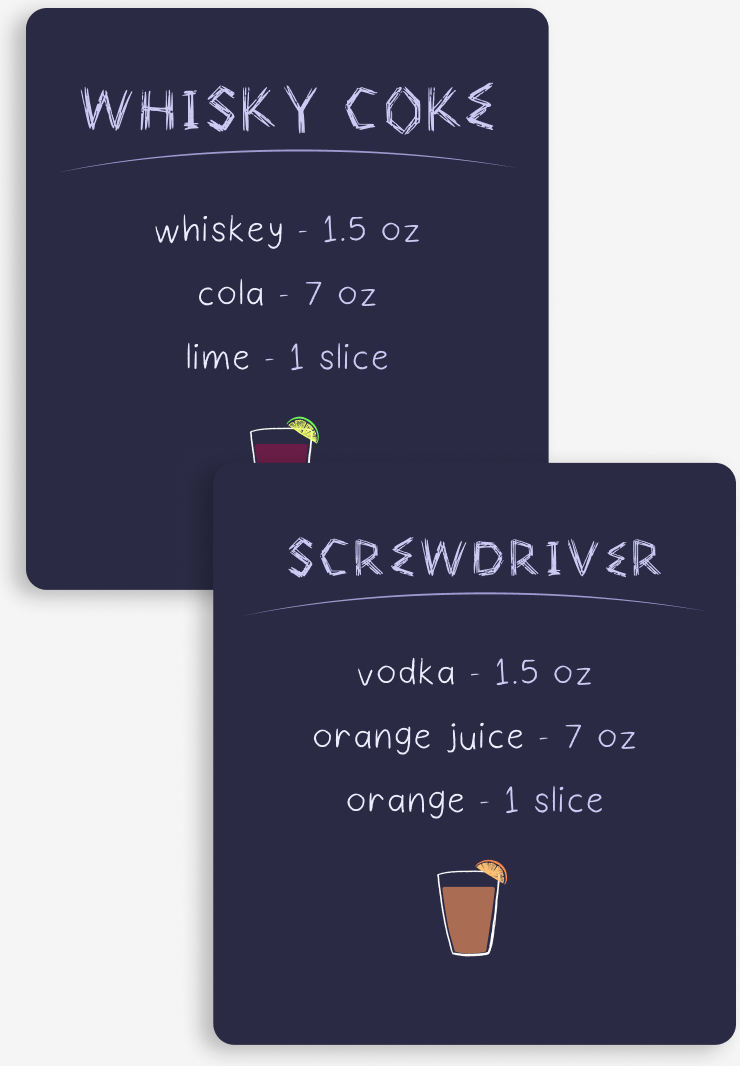
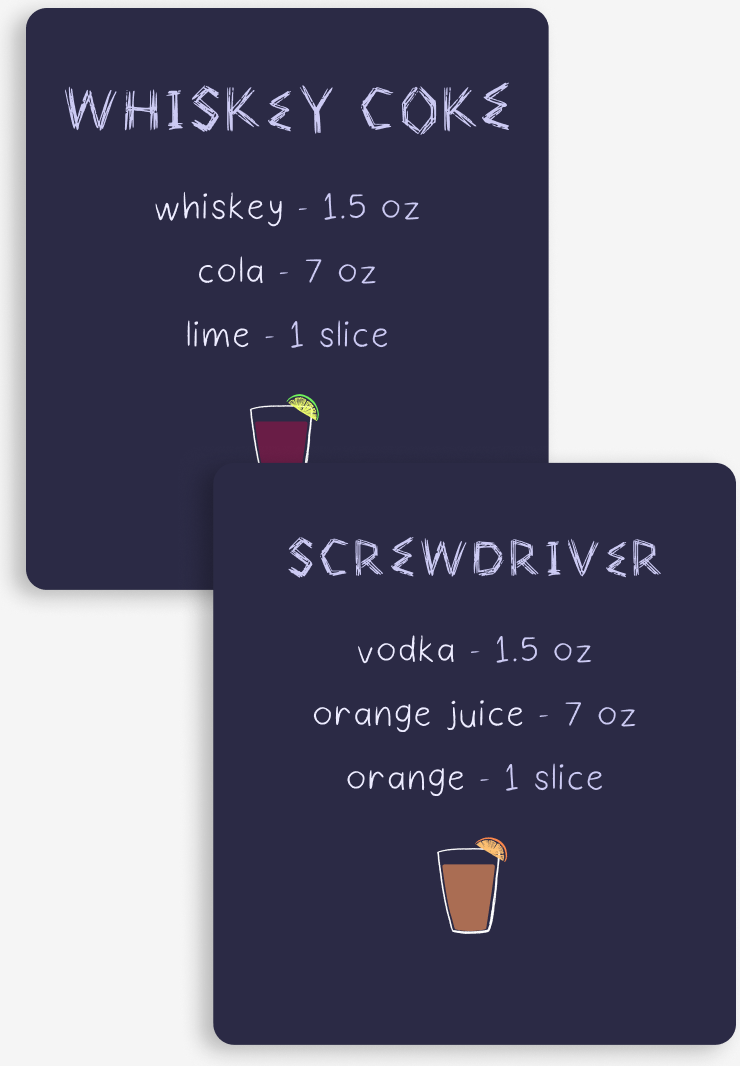
Bone Dry: add the Design system band; recipe card now reads Whiskey Coke

diff --git a/bone-dry.html b/bone-dry.html
@@ -88,7 +88,7 @@
           </div>
         </div>
 
-        <img data-reveal class="bd-learning__cards" src="assets/images/bone-dry/recipe-cards.png" width="740" height="1066" alt="Two recipe cards from the game: Whisky Coke (whiskey 1.5 oz, cola 7 oz, lime 1 slice) and Screwdriver (vodka 1.5 oz, orange juice 7 oz, orange 1 slice)" loading="lazy">
+        <img data-reveal class="bd-learning__cards" src="assets/images/bone-dry/recipe-cards.png" width="740" height="1066" alt="Two recipe cards from the game: Whiskey Coke (whiskey 1.5 oz, cola 7 oz, lime 1 slice) and Screwdriver (vodka 1.5 oz, orange juice 7 oz, orange 1 slice)" loading="lazy">
         <img data-reveal class="bd-learning__peek" src="assets/images/bone-dry/recipe-peek.png" width="614" height="326" alt="In-game prompt: Peek at the recipe for 0.50? with Cancel and Yes buttons" loading="lazy">
       </div>
     </section>
@@ -205,6 +205,14 @@
           <figure class="bd-fig bd-fig--below" data-reveal><img src="assets/images/bone-dry/start-1.png" width="1010" height="468" alt="Start screen: the Bone Dry logo with Drink Menu and Start Shift, and the Mocktails Only toggle off" loading="lazy"><figcaption>On the start screen, the user has the option to enter “MOCKTAILS ONLY” mode by clicking the toggle on the top left.</figcaption></figure>
           <figure class="bd-fig bd-fig--below" data-reveal><img src="assets/images/bone-dry/start-2.png" width="1010" height="468" alt="Start screen with Mocktails Only switched on and the logo in pink" loading="lazy"><figcaption>“MOCKTAILS ONLY” being toggled on will result in customers asking for only mocktails, and spirits being removed from the bar ingredients until mocktail mode is turned off.</figcaption></figure>
         </div>
+      </div>
+    </section>
+
+    <!-- Figma: Design system band (12710 → 13595). Heading is text; the board is one image. -->
+    <section class="bd-band bd-system">
+      <div class="container">
+        <h2 class="bd-h2" data-reveal>Design system</h2>
+        <img data-reveal class="bd-system__board" src="assets/images/bone-dry/design-system.png" width="2032" height="1072" alt="Bone Dry design system. Primary button: Start Order. Secondary buttons: Pour in three states. Navigation buttons: Garnish in three states. Text: display text and two weights of secondary text in the hand-made fonts. Illustration: skeleton and human customers and bottles. Icons: recipe, pause, restart, back and forward. A Whisky Coke recipe card." loading="lazy">
       </div>
     </section>
   </main>

diff --git a/css/style.css b/css/style.css
@@ -1047,7 +1047,10 @@ a { color: inherit; text-decoration: none; }
 .bd .bd-round3__art { width: auto; height: 355px; }
 .bd-round3__grid > .bd-fig:nth-child(5), .bd-round3__grid > .bd-fig:nth-child(6) { margin-top: 21px; } /* 11278 */
 .bd-round3__grid > .bd-fig:nth-child(7) { margin-top: 24px; } /* 11682 */
-.bd-start { padding: 172px 0 239px; } /* h2 12173 */
+.bd-start { padding: 172px 0 136px; } /* h2 12173; next band 12710 */
+.bd-system { padding: 92px 0 102px; background: #12111d; } /* band 12710 → 13595 */
+.bd-system .bd-h2 { color: #ebebeb; }
+.bd .bd-system__board { width: 99.41%; margin-top: 116px; } /* 1016 wide at 209, 12957 */
 .bd-start__grid { margin-top: 52px; }
 
 .page-bonedry .site-footer__social { color: var(--ink); }
@@ -1090,4 +1093,6 @@ a { color: inherit; text-decoration: none; }
   .bd-changed { margin-top: 88px; padding: 56px 0; }
   .bd-round3 { padding-top: 64px; }
   .bd-start { padding: 88px 0 96px; }
+  .bd-system { padding: 64px 0; }
+  .bd .bd-system__board { width: 100%; margin-top: 48px; }
 }
